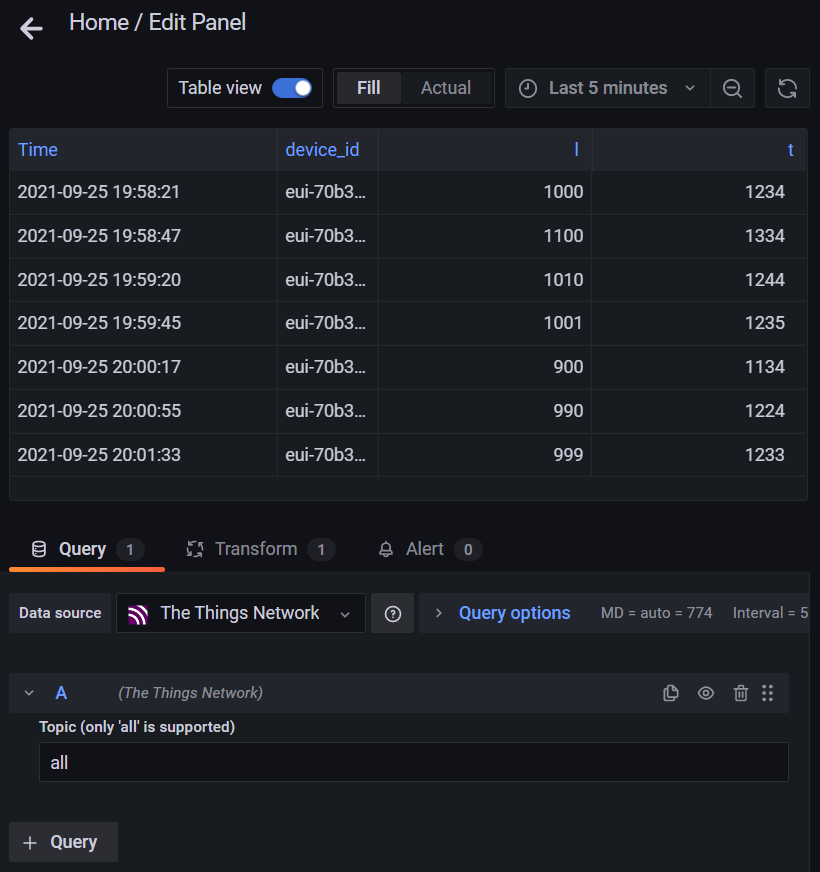
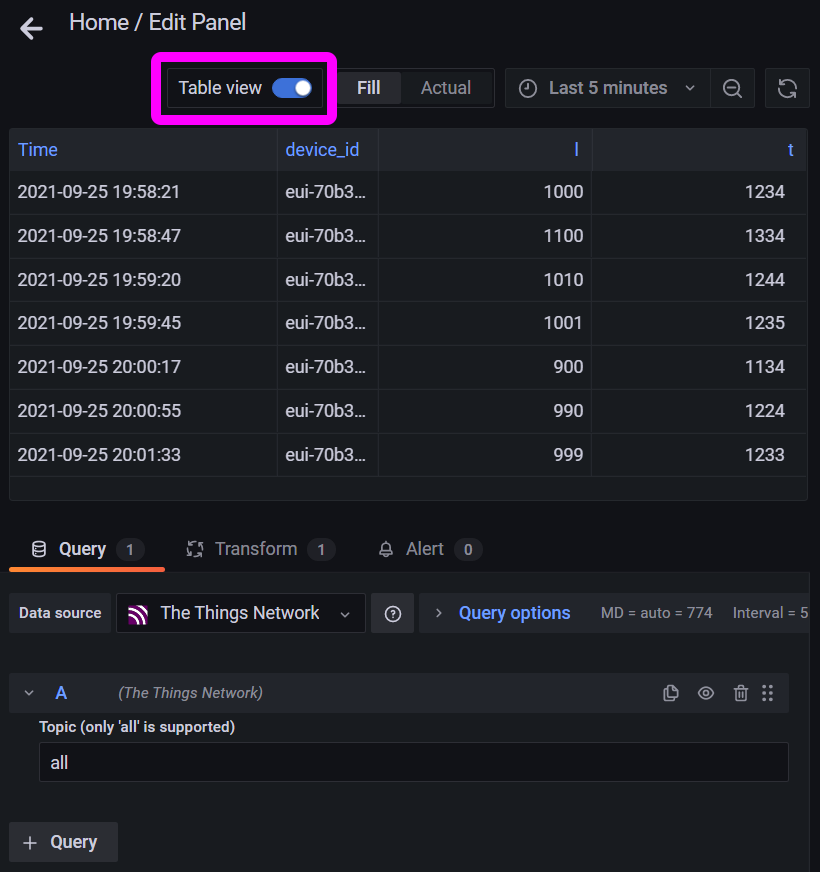
Update article

Changed region(s): [[0.1829, 0.0619, 0.4268, 0.1548]]

diff --git a/src/grafana.md b/src/grafana.md
@@ -118,29 +118,53 @@ We should see the message __"MQTT Connected"__...
 
 Let's __render the Sensor Data__ from The Things Network in Grafana!
 
-1.  Click __"Add Panel"__ (top right)
+Click __"Add Panel"__ (top right)
 
-    Click __"Add An Empty Panel"__
+Click __"Add An Empty Panel"__
 
-    ![Add Panel](https://lupyuen.github.io/images/grafana-dashboard3.png)
+![Add Panel](https://lupyuen.github.io/images/grafana-dashboard3.png)
 
-1.  Set the __Data Source__ to __"The Things Network"__
+Set the __Data Source__ to __"The Things Network"__
 
-    Set the __Topic__ to __"all"__
+Set the __Topic__ to __"all"__
 
-    ![Set Data Source and Topic](https://lupyuen.github.io/images/grafana-dashboard7.png)
+![Set Data Source and Topic](https://lupyuen.github.io/images/grafana-dashboard7.png)
 
-1.  Click __"Apply"__ (top right)
+Click __"Apply"__ (top right)
 
-    ![The Things Network Dashboard](https://lupyuen.github.io/images/grafana-dashboard6.png)
+Our Sensor Data appears on the Grafana Dashboard!
 
-1.  TODO: Table View
+![The Things Network Dashboard](https://lupyuen.github.io/images/grafana-dashboard6.png)
 
-    ![Table View](https://lupyuen.github.io/images/grafana-dashboard4.png)
+## View Raw Data
 
-1.  TODO: Filter
+To see the __Raw Sensor Data__ as a table...
 
-    ![Filter](https://lupyuen.github.io/images/grafana-dashboard8.png)
+Click __"Panel Title"__ and __"Edit"__
+
+Click __"Table View"__
+
+![Table View](https://lupyuen.github.io/images/grafana-dashboard4.png)
+
+## Filter Data
+
+To __filter the Sensor Data__ that will be rendered in the dashboard...
+
+Click the __"Transform"__ Tab
+
+Select __"Filter Data By Values"__
+
+Set the Conditions and click __"Apply"__
+
+![Filter Data](https://lupyuen.github.io/images/grafana-dashboard8.png)
+
+The above filter matches the __Device ID__ with the Regular Expression...
+
+```text
+eui-70b3.*
+```
+
+Which means that only Device IDs starting with __"eui-70"__ will be rendered.
 
 # CBOR: Concise Binary Object Representation
 
